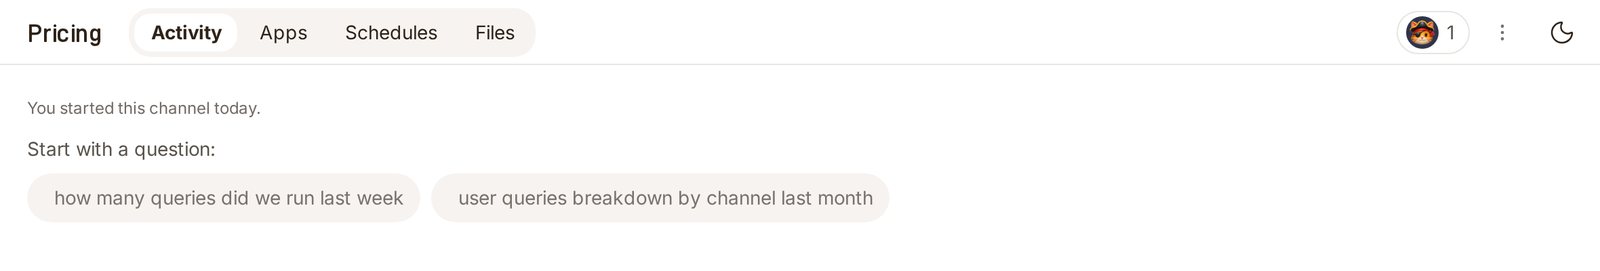
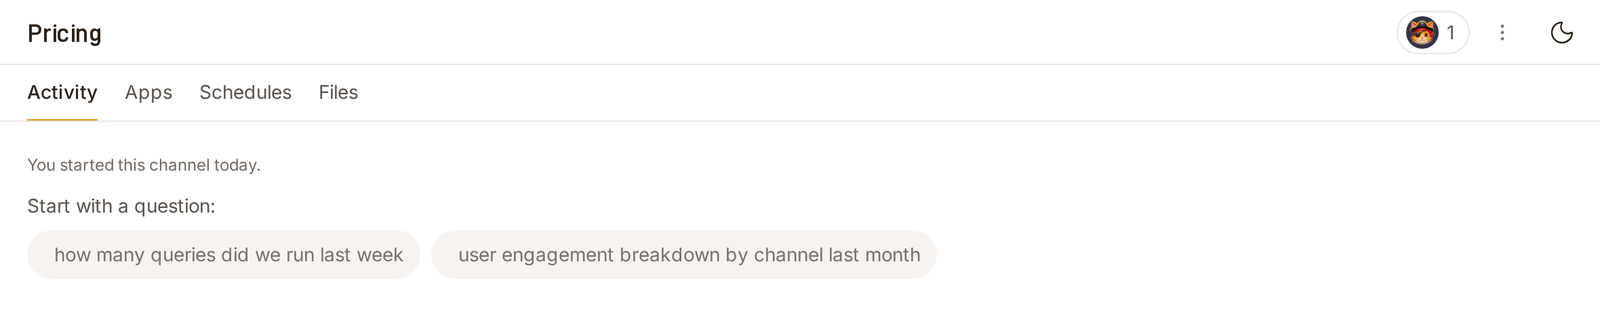
docs: who reads a team's data, and the underline tabs
A teammate's data stays theirs: Dot reads their questions and
answers but not what they fetched, a download re-fetches with your
own access, a chat teammates asked in stays in its channel, and a
test of a teammate's schedule runs with your access. Modelers may
open personal chats where History lets them. Pictures retaken with
the underline tabs.

diff --git a/dot/dot/whats-dot/teams.md b/dot/dot/whats-dot/teams.md
@@ -32,7 +32,7 @@ Each channel names the groups and people who can open it, and what they can do t
 * **Can edit**: ask Dot in the channel, and put chats and apps in it.
 * **Can view**: read everything in the channel.
 
-Admins open every channel. Everything that is in no channel is personal: only you and admins can open it, unless you share its link.
+Admins open every channel. Everything that is in no channel is personal: only you and admins can open it, unless you share its link. If your admin lets modelers read every chat in History, modelers can open it too.
 
 To see who is in a channel, click the faces at the top of it. The number beside them says how many people can open it. In a channel you can only read, the place of the box says who can let you ask. A thread says the same, and offers **Continue in a private chat**.
 
@@ -84,7 +84,7 @@ Or from the chat itself:
 2. Under **Channel**, pick the team's channel (type to search). Dot shows who will be able to ask in it and who can only read it.
 3. Click **Share in** and the channel's name.
 
-Only the person who started a chat, or an admin, can put it in a channel or take it out.
+Only the person who started a chat, or an admin, can put it in a channel or take it out. Once a teammate has asked in it, it stays in that channel: their answers came from their own data access, for that channel's people. You can still take it out of the team, and an admin can move it.
 
 <figure><img src="../../.gitbook/assets/team-share-to-channel.png" alt="The Share dialog naming who can ask in the picked channel and who can read it"><figcaption><p>Share says who will ask and who will read before you share.</p></figcaption></figure>
 
@@ -92,7 +92,7 @@ Only the person who started a chat, or an admin, can put it in a channel or take
 
 Open a question's thread in the channel. Each question in it shows the face and name of the person who asked.
 
-When you ask, Dot answers with your own data access, not the access of the person who started the chat. Everyone in the channel sees what you ask. To build on a teammate's analysis without adding to their chat, open it as a page and click **Continue in a private chat**. Your copy keeps who asked each earlier question.
+When you ask, Dot answers with your own data access, not the access of the person who started the chat. Everyone in the channel sees what you ask. Dot reads your teammates' questions and answers in the chat, but never the data they fetched along the way, and when you download a table from a teammate's answer, Dot fetches it again with your own access. To build on a teammate's analysis without adding to their chat, open it as a page and click **Continue in a private chat**. Your copy keeps who asked each earlier question.
 
 If a teammate asks while you have the chat open, their question and Dot's work appear as they happen.
 
@@ -111,6 +111,7 @@ The **Schedules** tab lists the schedules that deliver the channel's chats and a
 
 * People who can edit the channel can pause and resume a teammate's schedule from the **⋮** at the end of its row. It keeps running as its owner.
 * Editing a teammate's schedule makes it yours. From then on it runs with your data access, and the editor says so before you save.
+* To test a teammate's schedule, choose **Latest numbers** or **Brief**: the test runs with your own data access.
 * People who can only view the channel see what runs and as whom, but not who receives it.
 
 <figure><img src="../../.gitbook/assets/team-edit-teammates-schedule.png" alt="The schedule editor saying that saving makes a teammate's schedule yours"><figcaption><p>Saving a change to a teammate's schedule makes it yours.</p></figcaption></figure>
